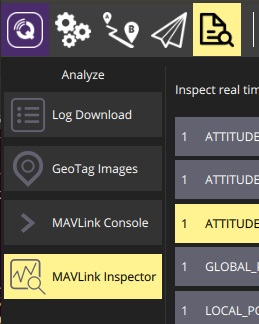
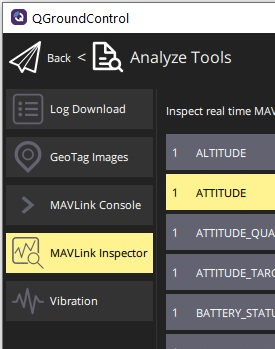
Update some images to more recent QGC - primarily in analyze

diff --git a/en/analyze_view/README.md b/en/analyze_view/README.md
@@ -1,12 +1,13 @@
 # Analyze View
 
-The *Analyze View* is accessed from the main toolbar.
+The *Analyze View* is accessed by selecting the *QGroundControl* application menu ("Q" icon in the top left corner) and then selecting the **Analyze Tools** button (from the *Select Tool* popup).
 
-![Analyze icon](../../assets/analyze/analyze_toolbar.jpg)
+![Analyze ](../../assets/analyze/menu_analyze_tool.png)
 
-It provides tools to:
+The view provides tools to:
 
 * [Download Logs](../analyze_view/log_download.md) — List, download and clear logs on the vehicle.
 * [GeoTag Images (PX4)](../analyze_view/geotag_images.md) — Geotag survey mission images using the flight log (on a computer).
 * [MAVLink Console (PX4)](../analyze_view/mavlink_console.md) — Access the the nsh shell running on the vehicle.
 * [MAVLink Inspector](../analyze_view/mavlink_inspector.md) — Display and chart received MAVLink messages/values.
+* Vibration clip count

diff --git a/en/analyze_view/mavlink_inspector.md b/en/analyze_view/mavlink_inspector.md
@@ -12,7 +12,9 @@ You can drill down into individual messages to get the message id, source compon
 You can also chart field values in real time, selecting multiple fields from multiple messages to display on one of two charts.
 
 To use the *MAVLink Inspector*:
-1. Select **Analyze | MAVLink Inspector**.
+1. Open *Analyze View* by selecting the *QGroundControl* application menu ("Q" icon in top left corner) and then choosing the **Analyze Tools** button (from the *Select Tool* popup).
+   ![Analyze ](../../assets/analyze/menu_analyze_tool.png)
+1. Select the **MAVLink Inspector** from the sidebar.
 
    ![MAVLink inspector menu](../../assets/analyze/mavlink_inspector/mavlink_inspector_menu.jpg)
 

diff --git a/en/analyze_view/mavlink_console.md b/en/analyze_view/mavlink_console.md
@@ -2,7 +2,7 @@
 
 The MAVLink Console (**Analyze > Mavlink Console**) allows you to connect to the PX4 [nsh shell](https://dev.px4.io/en/debug/system_console.html) and send commands.
 
-> **Note** The console only works when connected to *hardware* running the *PX4* flight stack. 
+> **Note** The console only works when connected to *hardware* running the *PX4* flight stack.
   PX4 SITL and ArduPilot are not supported.
 
 <span></span>
